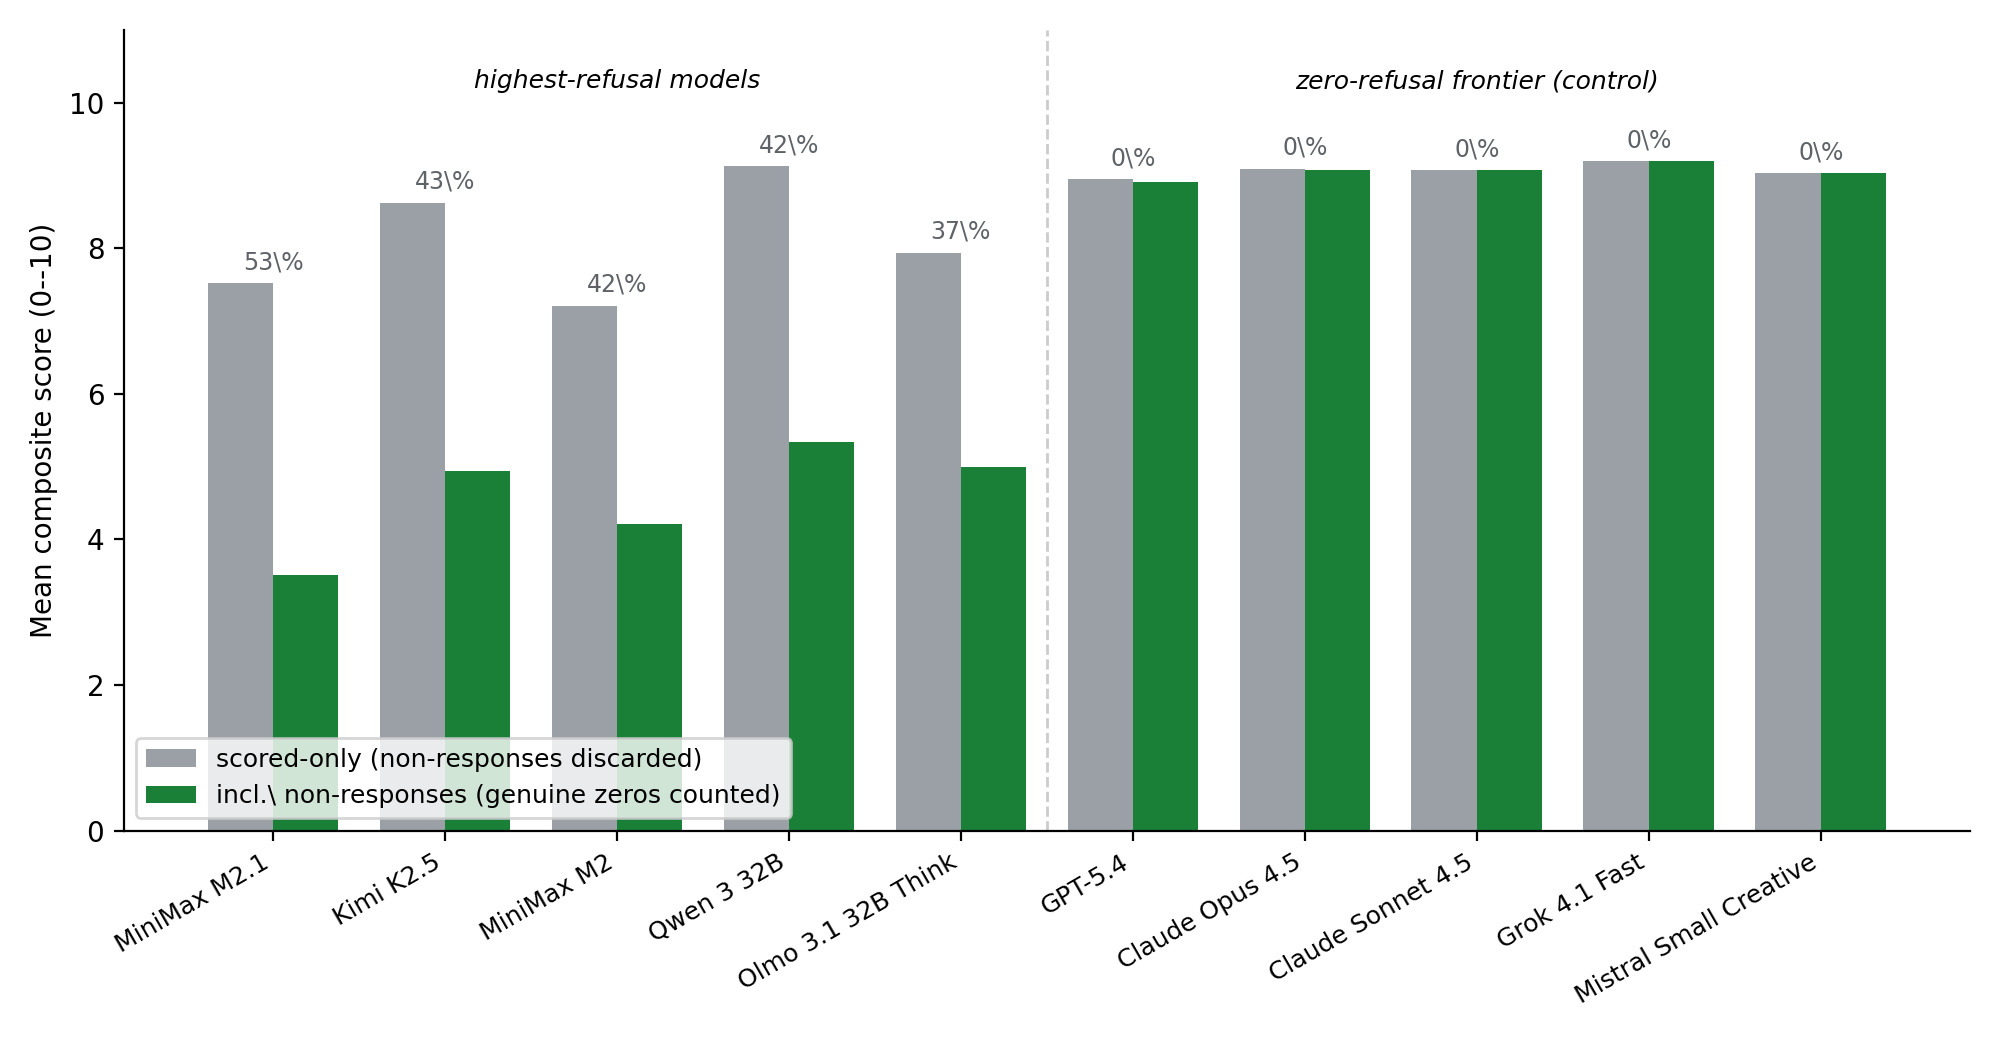
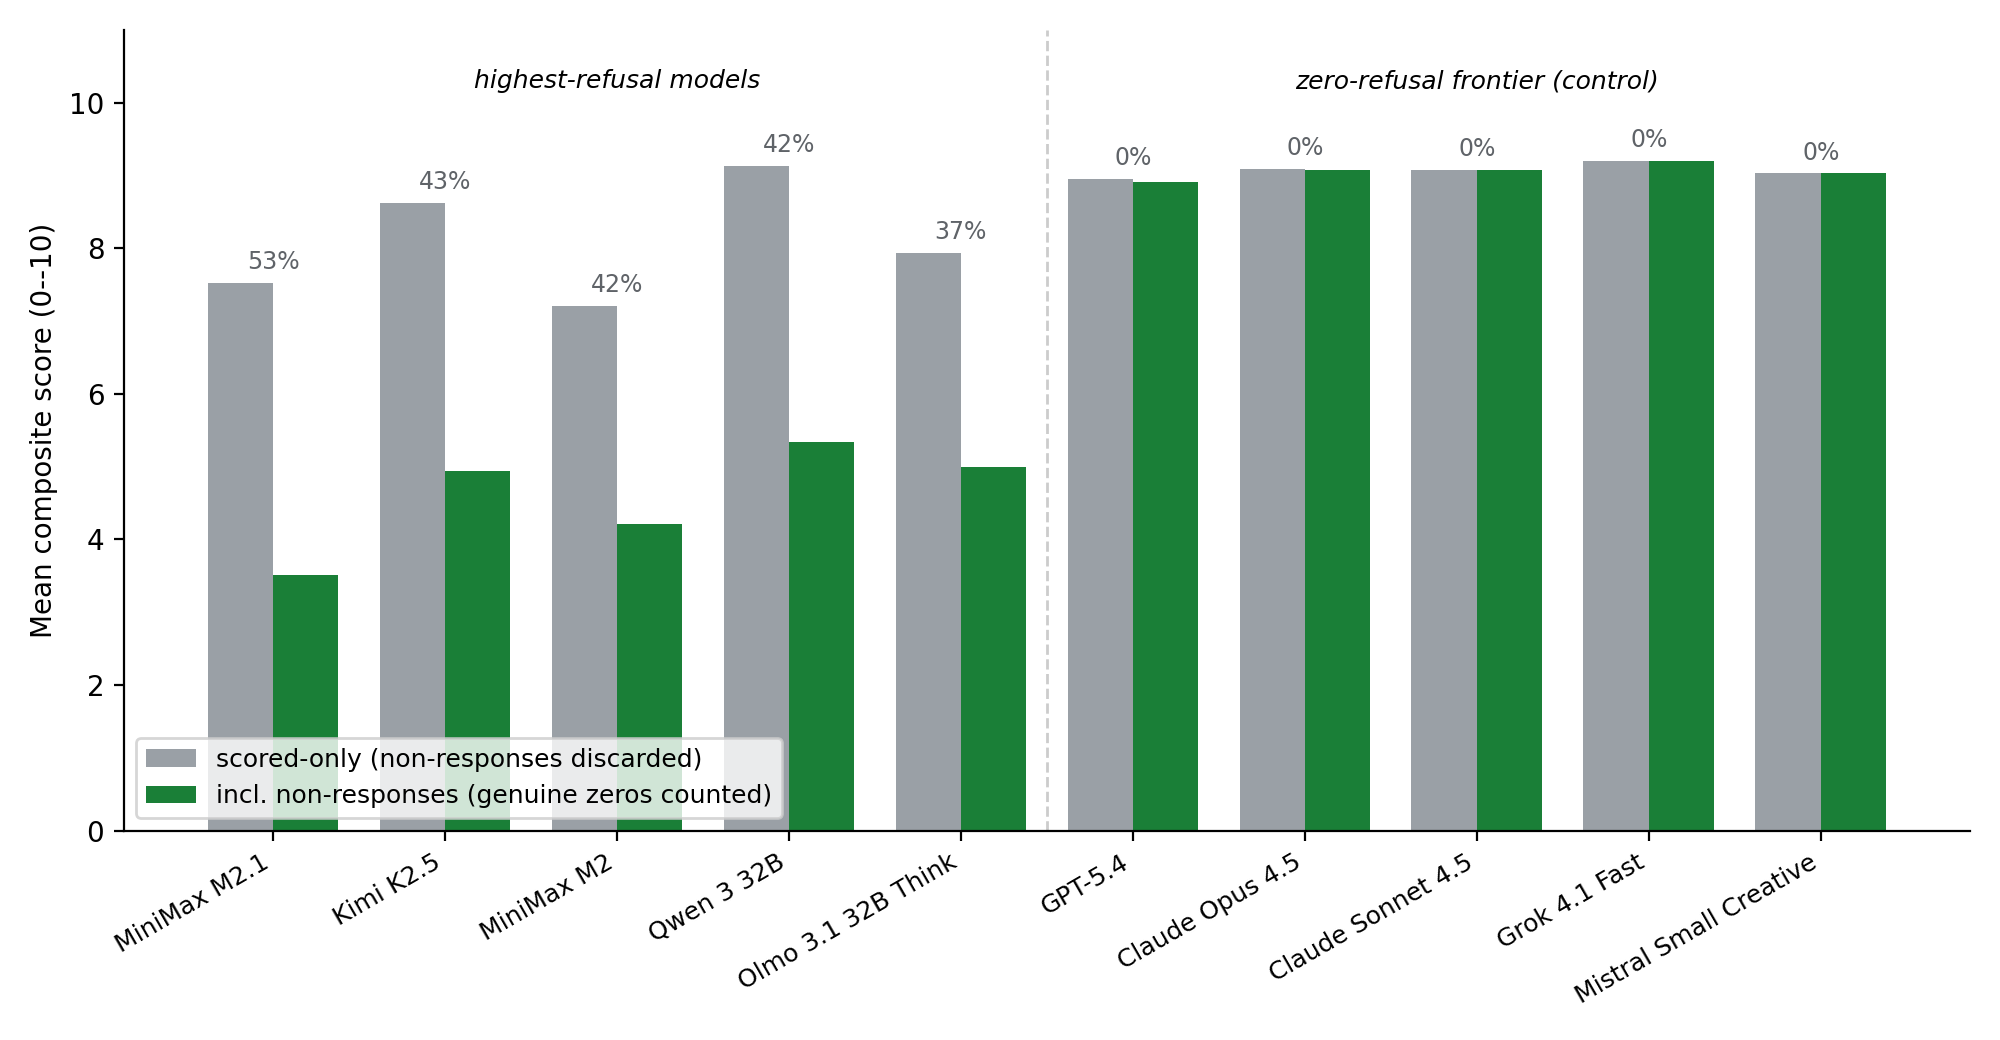
Fix matplotlib LaTeX-escaping in Figures 2 and 1
make_fig_refusal.py passed LaTeX escapes as literal matplotlib strings, so bar
labels rendered "53\%" and the legend read "incl.\ non-responses". Use plain
"53%" and "incl. non-responses". make_fig_ranks.py used the LaTeX en-dash
"Bradley--Terry" (rendered as two hyphens) -> real en-dash. Figures 3 ($\sigma$
mathtext) and 4 (Unicode) were already correct. Regenerate figures; rebuild
non-anonymous PDF.

diff --git a/scripts/make_fig_refusal.py b/scripts/make_fig_refusal.py
@@ -32,9 +32,9 @@ def main():
     scored = [r["mean_excl"] for r in group]
     incl = [r["mean_incl"] for r in group]
     ax.bar(x - w / 2, scored, w, label="scored-only (non-responses discarded)", color="#9aa0a6")
-    ax.bar(x + w / 2, incl, w, label="incl.\\ non-responses (genuine zeros counted)", color="#1a7f37")
+    ax.bar(x + w / 2, incl, w, label="incl. non-responses (genuine zeros counted)", color="#1a7f37")
     for xi, r in zip(x, group):
-        ax.text(xi, max(r["mean_excl"], r["mean_incl"]) + 0.12, f"{100*r['refusal']:.0f}\\%",
+        ax.text(xi, max(r["mean_excl"], r["mean_incl"]) + 0.12, f"{100*r['refusal']:.0f}%",
                 ha="center", va="bottom", fontsize=8.5, color="#5f6368")
     n_high = len(high)
     ax.axvline(n_high - 0.5, color="#ccc", ls="--", lw=1)

diff --git a/scripts/make_fig_ranks.py b/scripts/make_fig_ranks.py
@@ -43,7 +43,7 @@ def main():
     ax.set_xlim(-0.75, 1.75)
     ax.set_ylim(N + 0.5, 0.5)                         # rank 1 at top
     ax.set_xticks([0, 1])
-    ax.set_xticklabels(["Naive-mean\nrank", "Bradley--Terry\nrank"], fontsize=11)
+    ax.set_xticklabels(["Naive-mean\nrank", "Bradley–Terry\nrank"], fontsize=11)
     ax.set_yticks([1, 5, 10, 15, 20, 25, 30, N])
     ax.set_ylabel(f"Rank within the {N}-model frontier pool")
     for s in ("top", "right"):